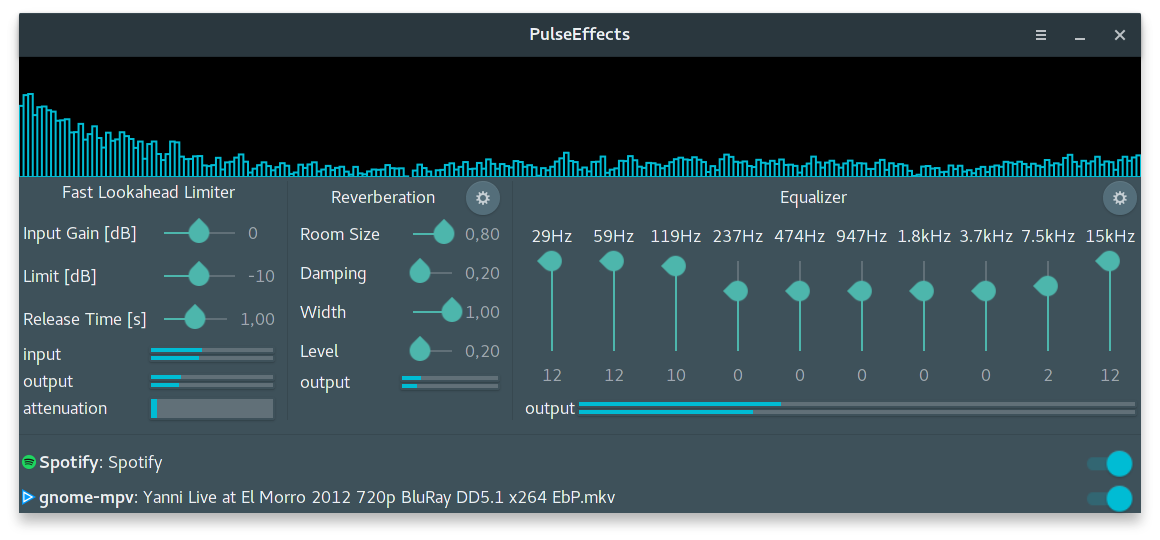
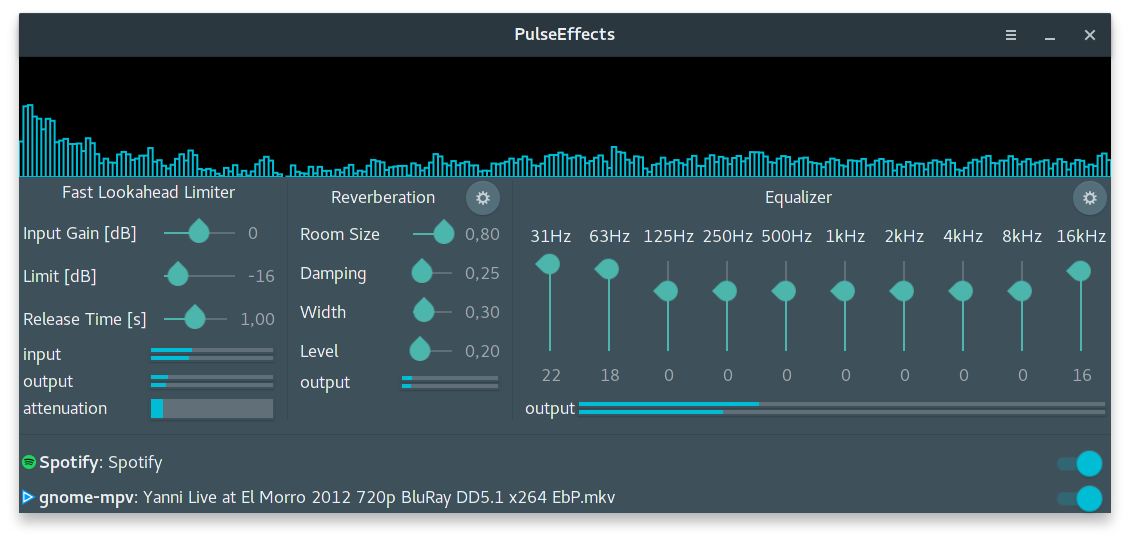
added flat eq preset, moved to caps eq and added a switch to set pulsesrc provide-clock

diff --git a/PulseEffects/gst.py b/PulseEffects/gst.py
@@ -31,8 +31,8 @@ class GstEffects(GObject.GObject):
 
         self.old_limiter_attenuation = 0
         self.rate = None
-        self.max_spectrum_freq = 15000  # Hz
-        self.spectrum_nbands = 360
+        self.max_spectrum_freq = 16000  # Hz
+        self.spectrum_nbands = 300
         self.spectrum_freqs = []
         self.spectrum_nfreqs = 0
         self.spectrum_threshold = -100  # dB
@@ -52,7 +52,9 @@ class GstEffects(GObject.GObject):
         self.limiter = Gst.ElementFactory.make(
             'ladspa-fast-lookahead-limiter-1913-so-fastlookaheadlimiter', None)
 
-        self.equalizer = Gst.ElementFactory.make('equalizer-10bands', None)
+        self.freeverb = Gst.ElementFactory.make('freeverb', None)
+
+        self.equalizer = Gst.ElementFactory.make('ladspa-caps-so-eq10x2', None)
 
         self.audio_sink = Gst.ElementFactory.make('pulsesink', None)
 
@@ -66,15 +68,12 @@ class GstEffects(GObject.GObject):
             'level', 'level_after_reverb')
         level_after_eq = Gst.ElementFactory.make('level', 'level_after_eq')
 
-        self.freeverb = Gst.ElementFactory.make('freeverb', None)
-
         spectrum_src_type = Gst.ElementFactory.make("typefind", None)
 
         spectrum = Gst.ElementFactory.make('spectrum', 'spectrum')
 
         self.audio_src.set_property('client-name', 'PulseEffects')
         self.audio_src.set_property('device', 'PulseEffects.monitor')
-        self.audio_src.set_property('provide-clock', False)
 
         spectrum.set_property('bands', self.spectrum_nbands)
         spectrum.set_property('threshold', self.spectrum_threshold)
@@ -227,6 +226,11 @@ class GstEffects(GObject.GObject):
         self.audio_sink.set_property('buffer-time', value)
         self.set_state('playing')
 
+    def set_src_provide_clock(self, value):
+        self.set_state('null')
+        self.audio_src.set_property('provide-clock', value)
+        self.set_state('playing')
+
     def set_limiter_input_gain(self, value):
         self.limiter.set_property('input-gain', value)
 
@@ -237,34 +241,34 @@ class GstEffects(GObject.GObject):
         self.limiter.set_property('release-time', value)
 
     def set_eq_band0(self, value):
-        self.equalizer.set_property('band0', value)
+        self.equalizer.set_property('param-31-hz', value)
 
     def set_eq_band1(self, value):
-        self.equalizer.set_property('band1', value)
+        self.equalizer.set_property('param-63-hz', value)
 
     def set_eq_band2(self, value):
-        self.equalizer.set_property('band2', value)
+        self.equalizer.set_property('param-125-hz', value)
 
     def set_eq_band3(self, value):
-        self.equalizer.set_property('band3', value)
+        self.equalizer.set_property('param-250-hz', value)
 
     def set_eq_band4(self, value):
-        self.equalizer.set_property('band4', value)
+        self.equalizer.set_property('param-500-hz', value)
 
     def set_eq_band5(self, value):
-        self.equalizer.set_property('band5', value)
+        self.equalizer.set_property('param-1-khz', value)
 
     def set_eq_band6(self, value):
-        self.equalizer.set_property('band6', value)
+        self.equalizer.set_property('param-2-khz', value)
 
     def set_eq_band7(self, value):
-        self.equalizer.set_property('band7', value)
+        self.equalizer.set_property('param-4-khz', value)
 
     def set_eq_band8(self, value):
-        self.equalizer.set_property('band8', value)
+        self.equalizer.set_property('param-8-khz', value)
 
     def set_eq_band9(self, value):
-        self.equalizer.set_property('band9', value)
+        self.equalizer.set_property('param-16-khz', value)
 
     def set_reverb_room_size(self, value):
         self.freeverb.set_property('room-size', value)

diff --git a/PulseEffects/application.py b/PulseEffects/application.py
@@ -91,7 +91,9 @@ class Application(Gtk.Application):
         }
 
         headerbar_ui_handlers = {
-            'on_buffer_time_value_changed': self.on_buffer_time_value_changed
+            'on_buffer_time_value_changed': self.on_buffer_time_value_changed,
+            'on_src_provide_clock_state_set':
+                self.on_src_provide_clock_state_set
         }
 
         main_ui_builder.connect_signals(main_ui_handlers)
@@ -120,6 +122,13 @@ class Application(Gtk.Application):
         buffer_time = self.settings.get_value('buffer-time').unpack()
 
         buffer_time_obj.set_value(buffer_time)
+
+        # pulsesrc provide-clock
+        src_provide_clock = headerbar_builder.get_object('src_provide_clock')
+
+        provide_clock = self.settings.get_value('src-provide-clock').unpack()
+
+        src_provide_clock.set_state(provide_clock)
 
         # limiter
 
@@ -273,6 +282,12 @@ class Application(Gtk.Application):
         self.settings.set_value('buffer-time', out)
 
         self.gst.set_buffer_time(value * 1000)
+
+    def on_src_provide_clock_state_set(self, obj, state):
+        self.gst.set_src_provide_clock(state)
+
+        out = GLib.Variant('b', state)
+        self.settings.set_value('src-provide-clock', out)
 
     def build_apps_list(self):
         children = self.apps_box.get_children()
@@ -503,6 +518,9 @@ class Application(Gtk.Application):
                 self.apply_eq_preset(value)
             elif label == 'dance':
                 value = self.settings.get_value('equalizer-dance')
+                self.apply_eq_preset(value)
+            elif label == 'flat':
+                value = self.settings.get_value('equalizer-flat')
                 self.apply_eq_preset(value)
             elif label == 'default':
                 value = self.settings.get_value('equalizer-default')

diff --git a/setup.py b/setup.py
@@ -1,7 +1,7 @@
 from setuptools import setup, find_packages
 
 setup(name='PulseEffects',
-      version='1.0.2',
+      version='1.0.3',
       description='Audio effects for Pulseaudio applications',
       url='https://github.com/wwmm/PulseEffects',
       author='wwmm',
@@ -10,10 +10,10 @@ setup(name='PulseEffects',
       packages=find_packages(),
       install_requires=[
           'gi',
-          'gst-plugins-good',
           'gst-plugins-bad',
           'gst-python',
-          'swh-plugins'
+          'swh-plugins',
+          'caps'
       ],
       scripts=['pulseeffects'],
       include_package_data=True,

diff --git a/README.md b/README.md
@@ -17,8 +17,8 @@ Required libraries:
 - Python 3
 - PyGobject 3
 - Gtk 3.18 or above
-- Gstreamer, Gstreamer Plugins Good, Gstreamer Plugins Bad and Gstreamer Python (version 1.0 or above for all of them)
-- swh-plugins from Ladspa
+- Gstreamer, Gstreamer Plugins Bad and Gstreamer Python (version 1.0 or above for all of them)
+- swh-plugins and caps from Ladspa
 
 Arch Linux package:
 
